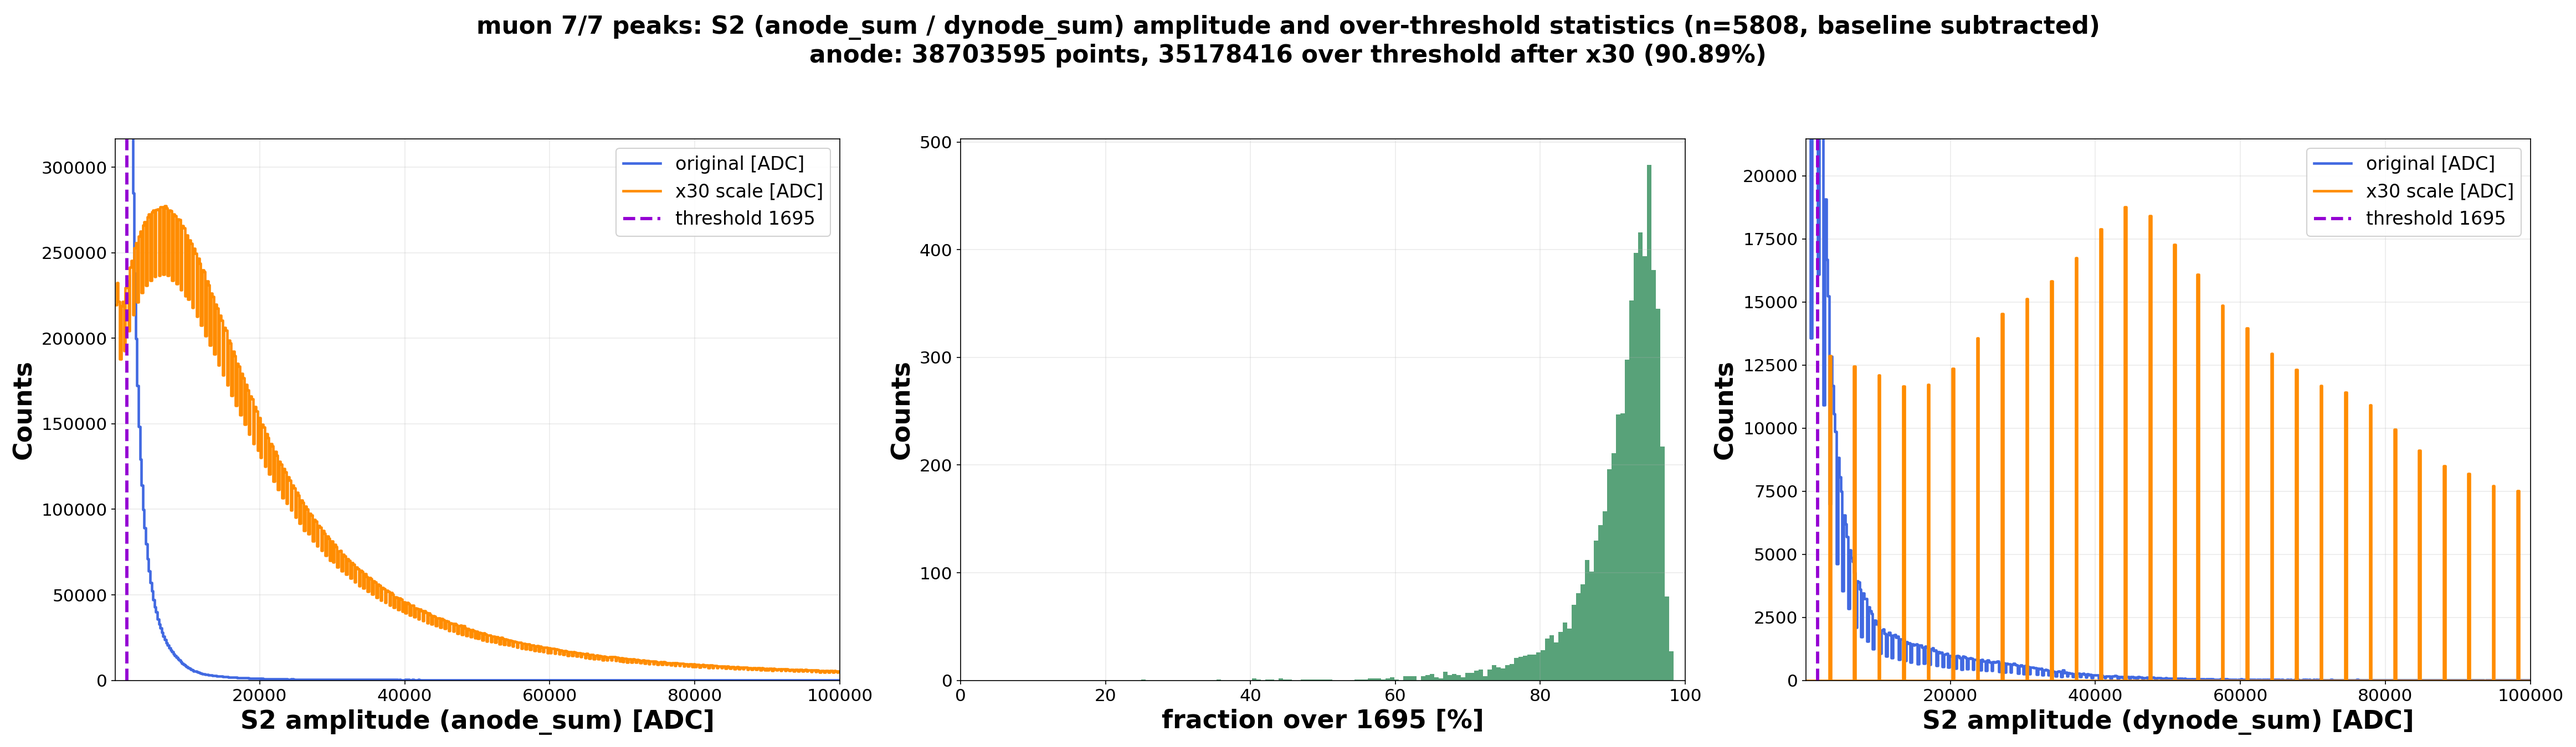
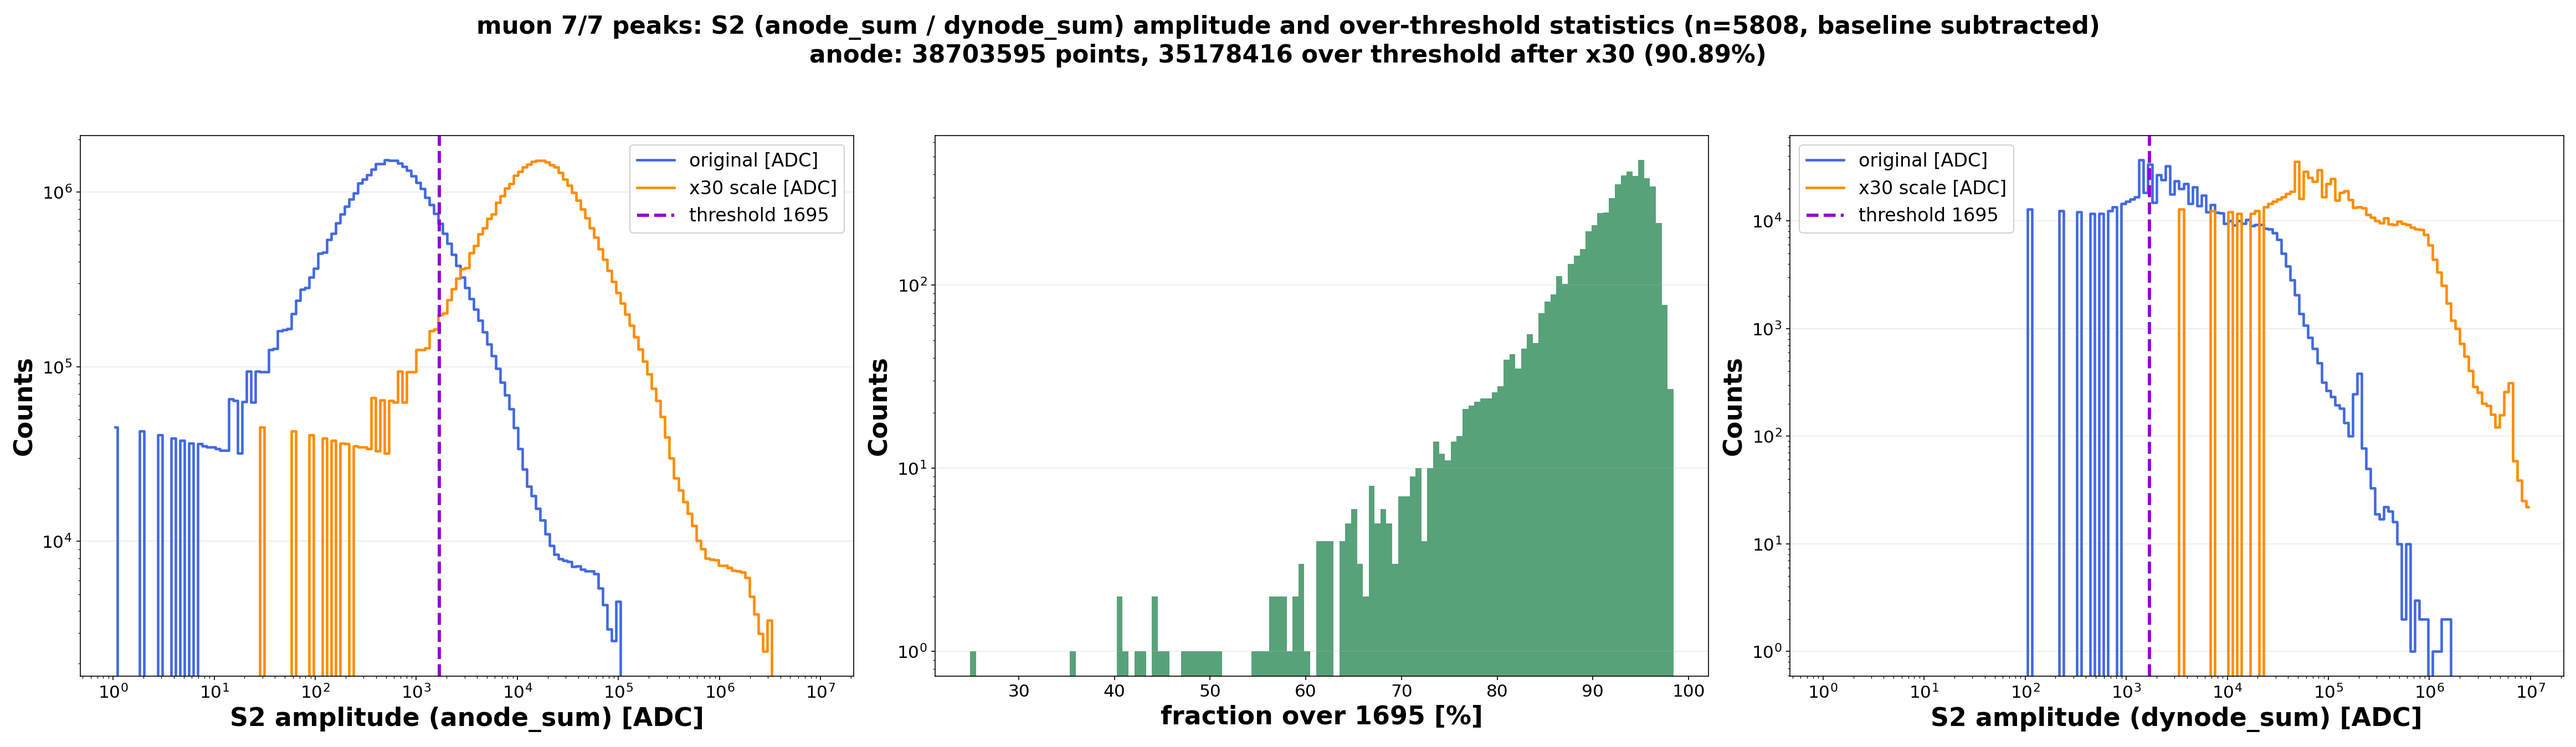
Revert "Linear axes with data-driven ranges: S2 amplitude 100-1e5 ADC"
This reverts commit 104916ff1cf545b1d4c72e17afb666276fd377ca.

diff --git a/scripts/muon_s2_over_threshold.py b/scripts/muon_s2_over_threshold.py
@@ -20,8 +20,7 @@ DOCS = "/home/yjj/MuonDAS/docs/figures"
 NAME = "co60_590_v2_muon_7ch_s2_over1695.png"
 SCALE = 30.0
 THRESH = 1695.0
-NBINS = 500
-X_LO, X_HI = 100.0, 1e5
+BINS = np.logspace(0, 7, 160)
 
 ratio = pd.read_csv(f"{TMP}/muon_an_dy_channel_ratio.csv")
 df = pd.read_csv(f"{TMP}/co60_590_peak_level_v2.csv")
@@ -29,12 +28,10 @@ m = df.merge(ratio[(ratio.n_an_pulse == 7) & (ratio.n_dy_pulse == 7)][["run_id",
              on=["run_id", "peaks_id"])
 print(f"7ch/7ch muon peaks = {len(m)}")
 
-ha_raw = np.zeros(NBINS)
-ha_sc = np.zeros(NBINS)
-hd_raw = np.zeros(NBINS)
-hd_sc = np.zeros(NBINS)
-seg_an = []
-seg_dy = []
+ha_raw = np.zeros(BINS.size - 1)
+ha_sc = np.zeros(BINS.size - 1)
+hd_raw = np.zeros(BINS.size - 1)
+hd_sc = np.zeros(BINS.size - 1)
 rows = []
 cache = {}
 for _, row in m.iterrows():
@@ -50,19 +47,14 @@ for _, row in m.iterrows():
     dy = np.asarray(store["dynode_sums"].get(pid, np.zeros(0)), dtype=float)[lo:hi]
     if a.size == 0:
         continue
-    seg_an.append(a)
-    seg_dy.append(dy)
+    ha_raw += np.histogram(a, bins=BINS)[0]
+    ha_sc += np.histogram(a * SCALE, bins=BINS)[0]
+    if dy.size:
+        hd_raw += np.histogram(dy, bins=BINS)[0]
+        hd_sc += np.histogram(dy * SCALE, bins=BINS)[0]
     rows.append({"run_id": rid, "peaks_id": pid,
                  "n_points_an": a.size, "n_over_an": int((a * SCALE > THRESH).sum()),
                  "n_points_dy": dy.size, "n_over_dy": int((dy * SCALE > THRESH).sum())})
-BA = np.linspace(X_LO, X_HI, NBINS + 1)
-BD = np.linspace(X_LO, X_HI, NBINS + 1)
-for a, dy in zip(seg_an, seg_dy):
-    ha_raw += np.histogram(a, bins=BA)[0]
-    ha_sc += np.histogram(a * SCALE, bins=BA)[0]
-    if dy.size:
-        hd_raw += np.histogram(dy, bins=BD)[0]
-        hd_sc += np.histogram(dy * SCALE, bins=BD)[0]
 d = pd.DataFrame(rows)
 d["frac_over_an"] = d.n_over_an / d.n_points_an
 d.to_csv(f"{TMP}/muon_7ch_s2_over1695.csv", index=False)
@@ -78,28 +70,25 @@ print(f"anode n_over  : min={d.n_over_an.min()} median={d.n_over_an.median():.0f
 print(f"anode frac    : median={d.frac_over_an.median():.4f} max={d.frac_over_an.max():.4f}")
 print(f"dynode n_points: min={d.n_points_dy.min()} median={d.n_points_dy.median():.0f} max={d.n_points_dy.max()}")
 
-c = BA[:-1] + np.diff(BA) / 2
-cd = BD[:-1] + np.diff(BD) / 2
+c = BINS[:-1] + np.diff(BINS) / 2
 fig, axes = plt.subplots(1, 3, figsize=(31, 9))
 
-for ax, xs, hraw, hsc, tag in [(axes[0], c, ha_raw, ha_sc, "anode_sum"),
-                               (axes[2], cd, hd_raw, hd_sc, "dynode_sum")]:
-    ax.step(xs, hraw, where="mid", color="royalblue", lw=2.2, label="original [ADC]")
-    ax.step(xs, hsc, where="mid", color="darkorange", lw=2.2, label=f"x{SCALE:g} scale [ADC]")
+for ax, hraw, hsc, tag in [(axes[0], ha_raw, ha_sc, "anode_sum"),
+                           (axes[2], hd_raw, hd_sc, "dynode_sum")]:
+    ax.step(c, hraw, where="mid", color="royalblue", lw=2.2, label="original [ADC]")
+    ax.step(c, hsc, where="mid", color="darkorange", lw=2.2, label=f"x{SCALE:g} scale [ADC]")
     ax.axvline(THRESH, color="darkviolet", ls="--", lw=2.8, label=f"threshold {THRESH:g}")
+    ax.set_xscale("log")
     ax.set_xlabel(f"S2 amplitude ({tag}) [ADC]", fontsize=22, fontweight="bold")
     ax.legend(framealpha=0.9, fontsize=16)
-    ax.set_xlim(X_LO, X_HI)
-    nz = hsc[hsc > 0]
-    ax.set_ylim(0, np.quantile(nz, 0.99) * 1.15)
 
 axes[1].hist(d.frac_over_an * 100, bins=120, color="seagreen", alpha=0.8)
 axes[1].set_xlabel(f"fraction over {THRESH:g} [%]", fontsize=22, fontweight="bold")
-axes[1].set_xlim(0, 100)
 for ax in axes:
     ax.set_ylabel("Counts", fontsize=22, fontweight="bold")
-    ax.grid(True, alpha=0.25)
+    ax.grid(True, axis="y", alpha=0.25)
     ax.tick_params(labelsize=15)
+    ax.set_yscale("log")
 fig.suptitle(f"muon 7/7 peaks: S2 (anode_sum / dynode_sum) amplitude and over-threshold "
              f"statistics (n={len(d)}, baseline subtracted)\n"
              f"anode: {tot_pts} points, {tot_over} over threshold after x{SCALE:g} "
